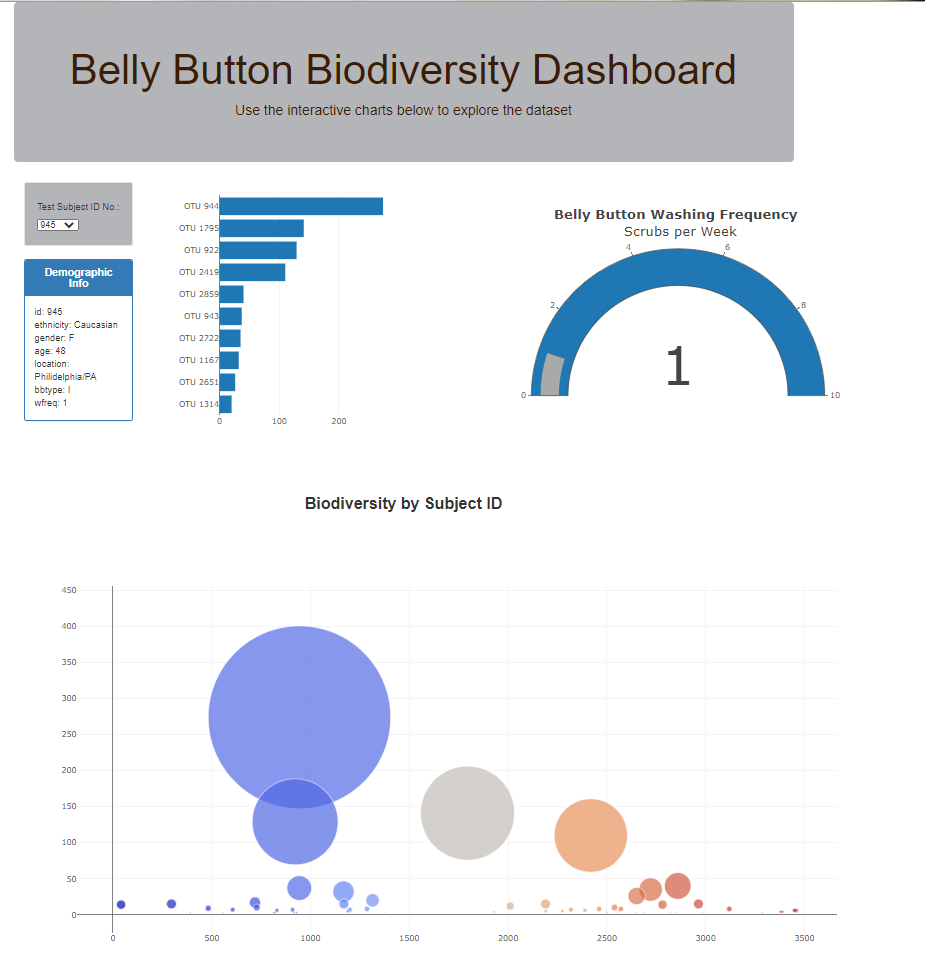
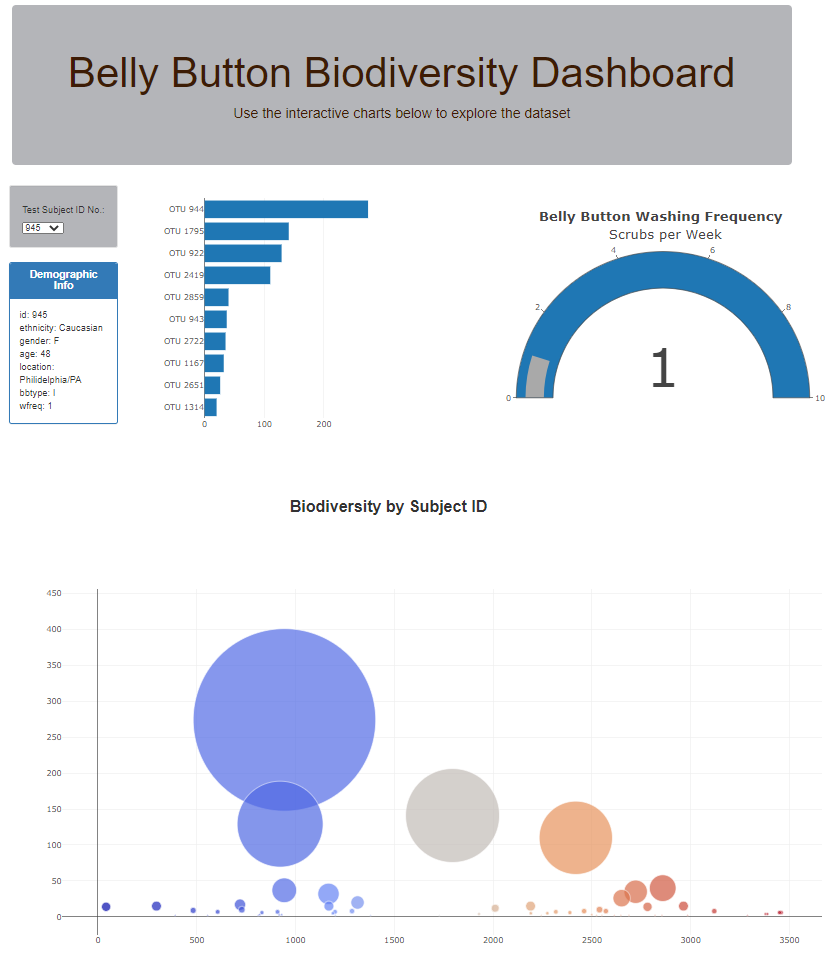
dashboard image corrected, readme updated

diff --git a/Biodiversity/static/css/style.css b/Biodiversity/static/css/style.css
@@ -1,14 +1,13 @@
 .jumbotron.jumbotron-blue {
     background: #b4b5b9;
     color: rgb(61, 28, 5);
-        
-  }
+    margin-top: 10px;
+    margin-left: 20px;
+}
 .well {
     background: #b4b5b9;
-  }   
+}   
 h3 {
     text-align: center; 
     font-weight:bold;
-
-   
 }  

diff --git a/README.md b/README.md
@@ -12,7 +12,7 @@ The dataset reveals that a small handful of microbial species (also called opera
 
 ### 1. Initialization
 
- We used the D3 library to read in `samples.json`and setup the intitial screnn display. The first subject ID data found in `sample.json` was retrieved for this initial display. The dropdown will be filled by using function initDropDown.
+ We used the D3 library to read in `samples.json`and setup the intitial screen display. The first subject ID data found in `sample.json` was retrieved for this initial display. The dropdown is filled by using function initDropDown.
 
 ### 2. Panel Info and Metadata 
 
@@ -25,12 +25,12 @@ Next the horizontal bar graph for selected subject with top ten OTUs is created 
 
 ### 4. Bubble Graph
 
-In bubble chart is displayed biodiversity found in each sample. Each bubble represents OTU by ID, with labels with Bacteria's identification. The size of the bubble displays sample value, and the color identify OTUs. 
-The function BubbleGraph works to display biodiversity for  selected subject ID.
+In bubble chart is displayed biodiversity of microbial species (OTU) found in each sample. Each bubble represents OTU by ID, with labels with species identification. The size of the bubble displays the sample value, and the color identify OTUs. 
+The function BubbleGraph works to display biodiversity for the selected subject ID.
 
 ### 5. Gauge Chart
 
-The washing frequency (scrubs per week) for selected subject ID is showcased using gauge chart, implemented in function gaugeBar. 
+The washing frequency (scrubs per week) for selected subject ID is showcased using the gauge chart, implemented in the function gaugeBar. 
 
 
 ![Belly Button Biodiversity Dashboard](Biodiversity/Images/Dashboard.png)
